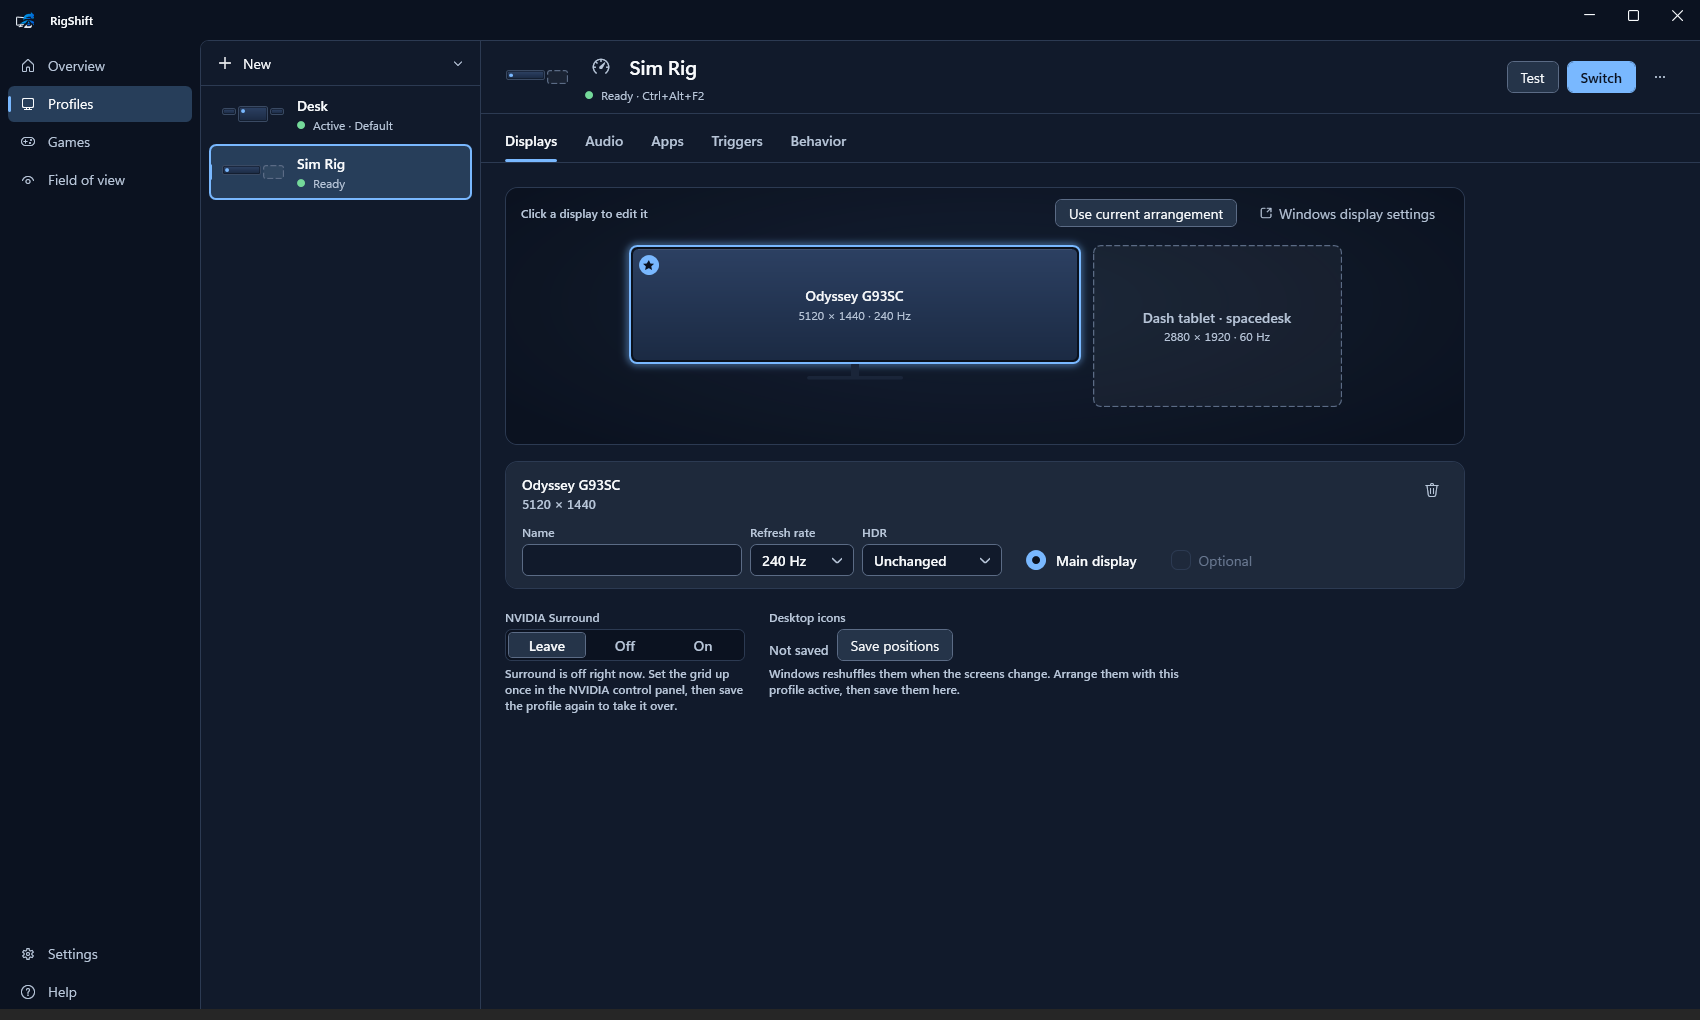
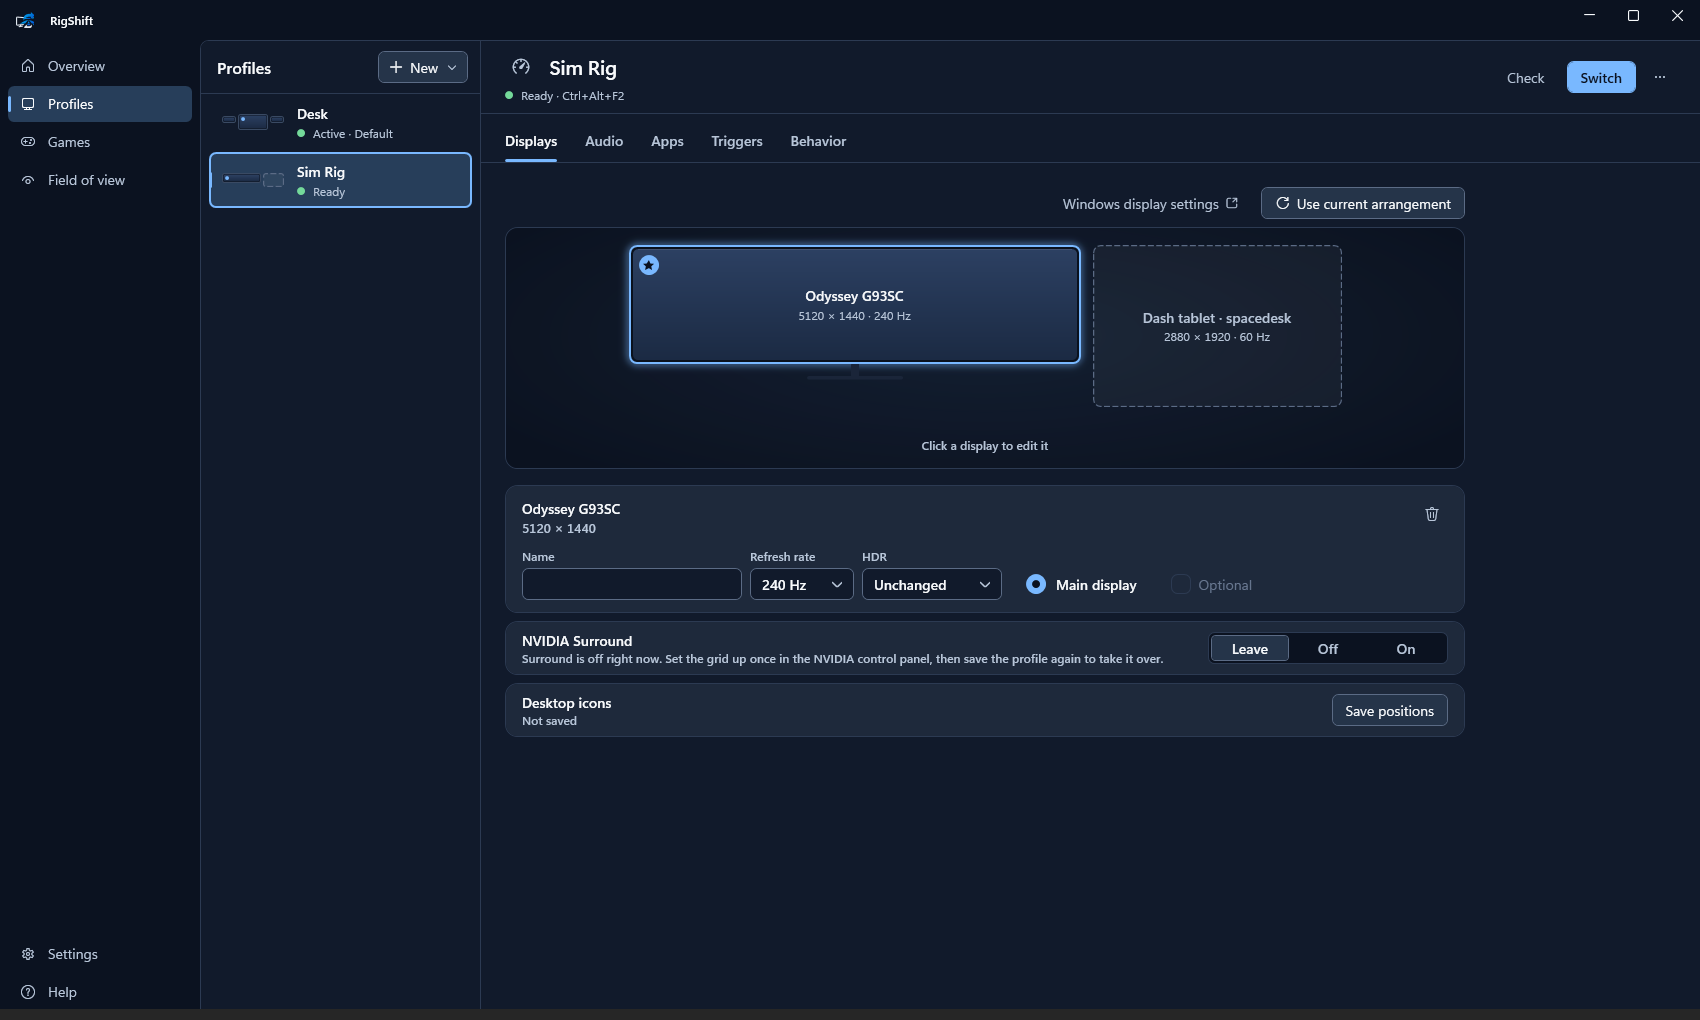
chore: version 3.4.0

diff --git a/CHANGELOG.md b/CHANGELOG.md
@@ -6,6 +6,25 @@ All notable changes to this project are documented here. The format follows
 
 ## [Unreleased]
 
+## [3.4.0] - 2026-09-18
+
+### Changed
+
+- **Profile and game tabs use the settings cards**: every option is a card with its title and a short explanation
+  on the left and the control on the right. Audio has one card each for playback, recording and calls with the
+  volume as a switch and slider; Triggers has three cards for USB devices, hotkey, and shortcut and command;
+  Behavior, Windows and End use switches instead of loose checkboxes.
+- The list columns have a title with a compact "New" button.
+- The profile head shows its state once: no more chips next to the status line, no second picture. An active
+  profile offers "Apply again" instead of the accent "Switch"; "Test" is now "Check".
+- A blocked profile says "3 displays missing" in the head and names them in a bar below; the list just says
+  "Blocked".
+- A pencil shows that profile and game names can be edited.
+- Game tab "Profile": the choices are cards side by side with the arrangement picture and a check mark.
+- USB device chips show a plug with a status dot; "+ Device" is a dashed chip of the same height.
+- New volume slider: a thicker rail filled in the accent colour and a thumb that grows on hover.
+- The display toolbar sits above the arrangement picture, the hint below the displays.
+
 ## [3.3.1] - 2026-09-18
 
 ### Fixed
